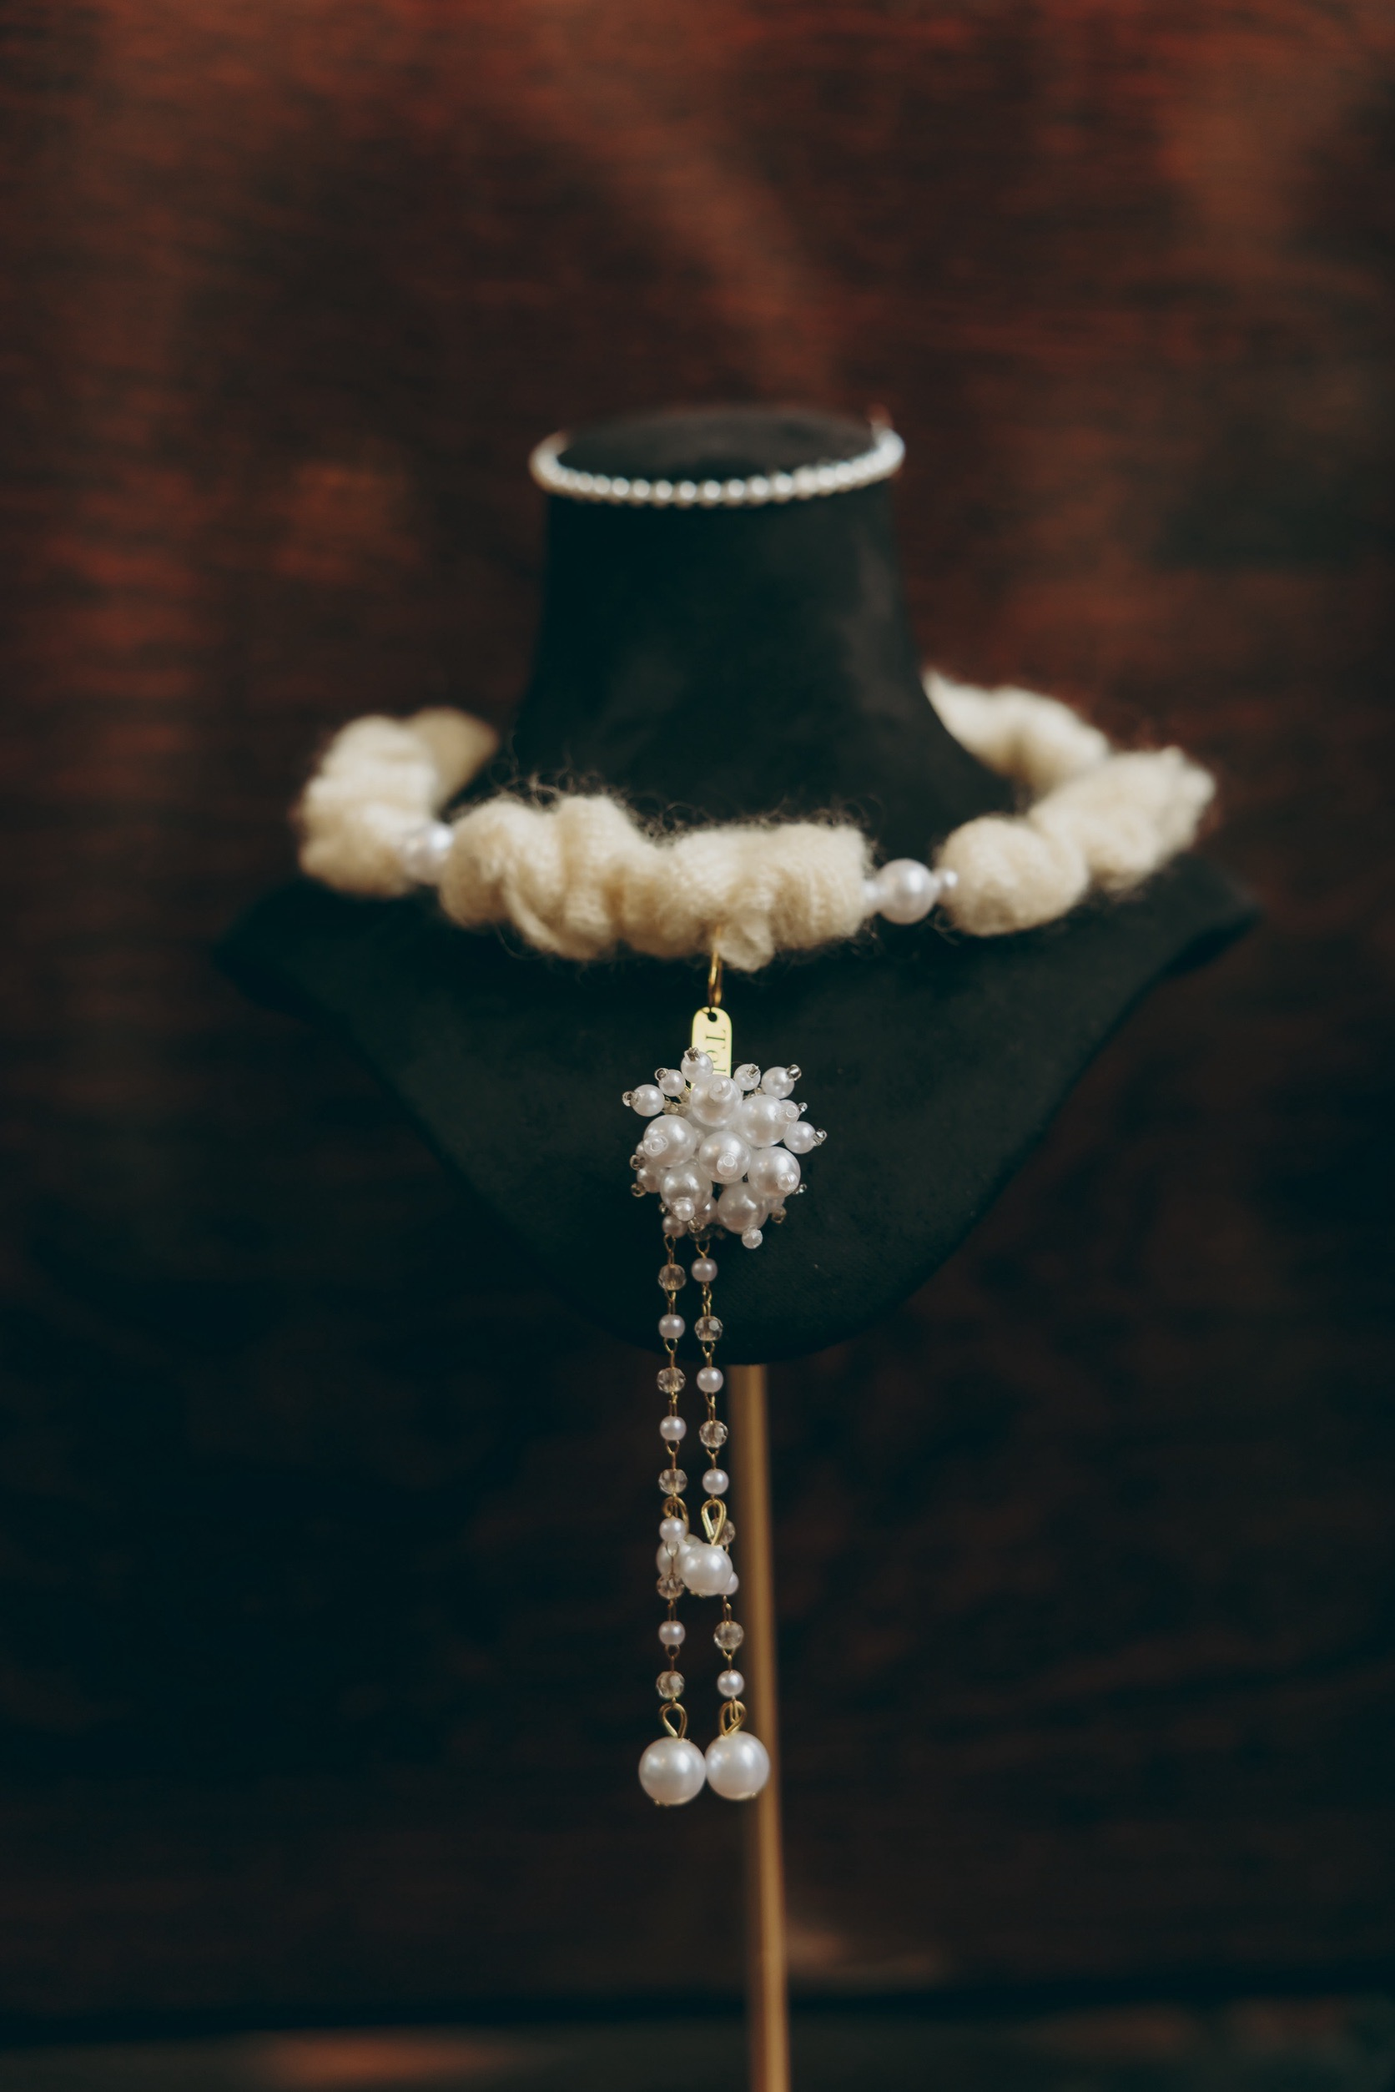
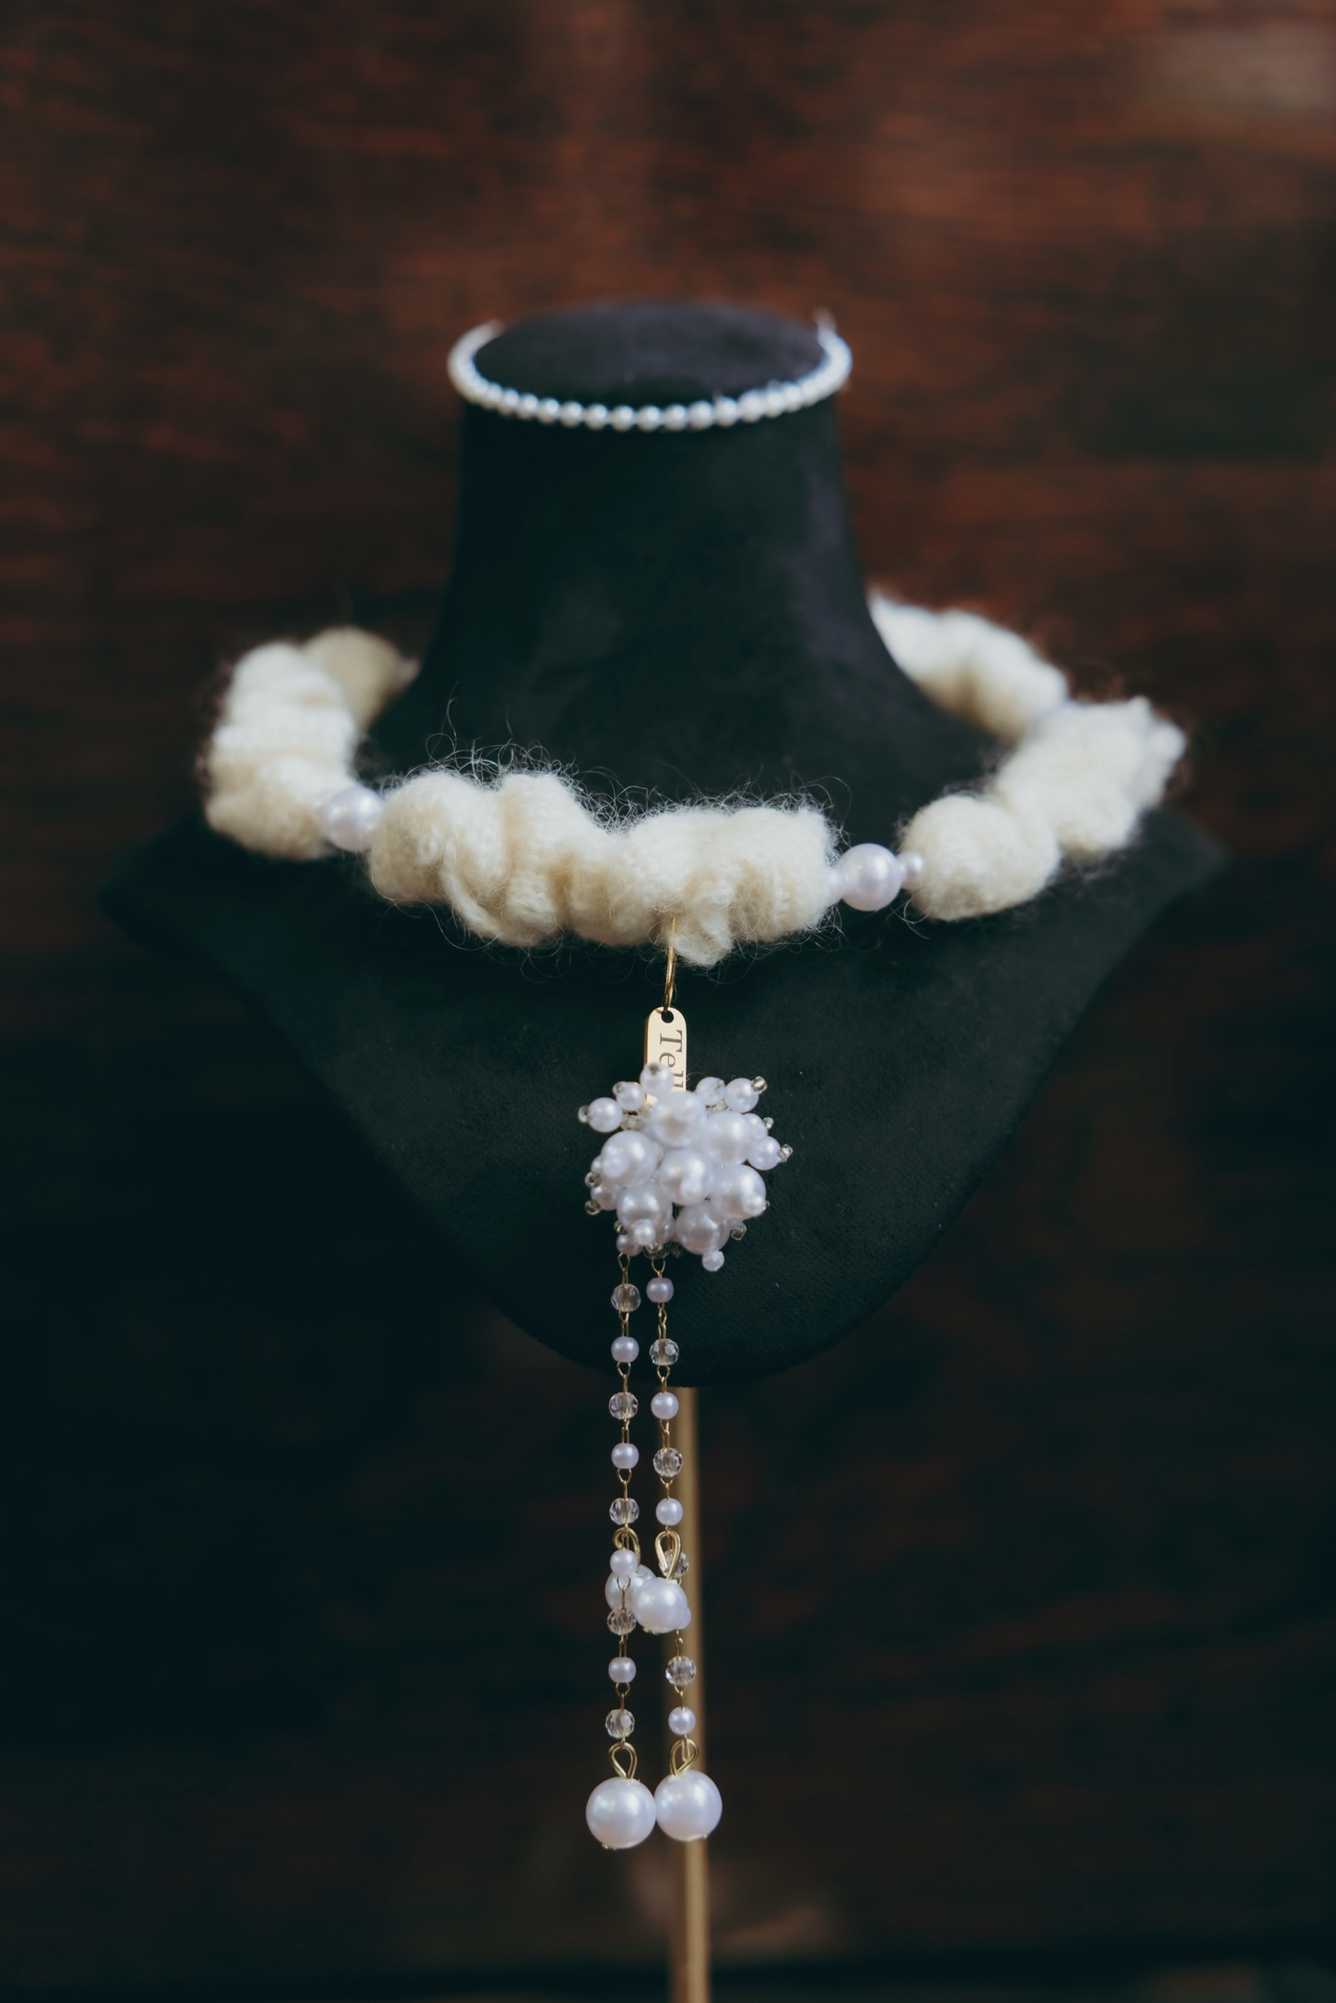
Update TellQ homepage.v.7.8.3

diff --git a/product-data.js b/product-data.js
@@ -99,17 +99,17 @@ const PRODUCT_DATA = [
             "【商品説明】</br></br>異なる色や質感の生地を組み合わせた、表情豊かなパッチワークマフラー。</br></br>上質なウールを使用し、モヘヤやアルパカなどの素材を組み合わせることで、それぞれ異なる素材の風合いを楽しめるデザインに仕上げました。</br></br>生地をオーバーロックで縫い合わせることで生まれる、ふんわりとした立体感も魅力のひとつ。</br></br>量産することのできない、唯一無二のデザインです。</br></br>巻き方によって見える柄や素材が変わるため、その日の気分やコーディネートに合わせてさまざまな表情をお楽しみいただけます。</br></br>カラーはブラック・ホワイト・ブラウンの全3色。シンプルな装いのアクセントとしてはもちろん、秋冬のワントーンコーデにもおすすめです。</br></br>仕上げにはTellQのオリジナルプレートを一針ずつ手縫いで取り付けました。</br></br>生地の組み合わせによって一つひとつ異なる表情を持つ、特別なアイテムです。</br></br>⋆. ݁┈┈┈┈┈┈┈┈┈┈┈┈┈┈┈┈┈┈ ݁.⋆",
             "【素材・組成】</br></br>* 主な素材：ウール</br>* その他の素材：モヘヤ、アルパカなど</br>* 補助素材：少量のナイロンなど</br>* 仕様：異なる生地を組み合わせたパッチワーク</br>* 仕上げ：TellQオリジナルプレートを手縫いで取り付け</br></br>【注意事項】</br></br>※使用素材や混率は商品ごとに異なる場合があります。</br></br>※正確な混率が確認できないため、素材の割合は記載していません。</br></br>商品に使用しているプレートには、製造過程や保管時に生じた細かな傷が見られる場合がございます。あらかじめご了承のうえ、ご購入いただきますようお願いいたします。</br></br>※傷が気になるお客様は、ご購入をお控えいただきますようお願いいたします。</br></br>⋆. ݁┈┈┈┈┈┈┈┈┈┈┈┈┈┈┈┈┈┈ ݁.⋆",
             "【お手入れ・保管方法】</br></br>アイロン</br></br>* スチームによる仕上げのみとし、アイロン面を生地に直接当てないでください。</br>* 生地の風合いや編み地を損なわないよう、優しくお取り扱いください。</br></br>洗濯</br></br>* 水または30℃以下のぬるま湯で、つけ置き洗いをしてください。</br>* 強くこすったり、引っ張ったりしないようご注意ください。</br>* タンブラー乾燥機の使用はお避けください。</br>* 洗濯後は形を整え、素材の風合いを損なわないよう乾燥させてください。</br>※素材や生地の組み合わせによって適切なお手入れ方法が異なる場合があります。洗濯表示や販売元の指示を優先してください。</br></br>ご使用上の注意</br></br>ざっくりと編まれたニット素材を含むため、アクセサリーやバッグの金具などへの引っ掛かりにご注意ください。</br></br>糸引きが起きた場合は、糸を切らずに、編み地の内側へ優しく引き戻して整えてください。</br></br>保管方法</br></br>* 湿気や直射日光を避け、清潔で乾燥した場所に保管してください。</br>* 型崩れや引っ掛かりを防ぐため、ほかの衣類やアクセサリーと分けて保管してください。</br>* 虫食いを防ぐため、防虫対策をおすすめします。</br></br>⋆. ݁┈┈┈┈┈┈┈┈┈┈┈┈┈┈┈┈┈┈ ݁.⋆",
-            "【サイズ・寸法】</br></br>サイズに関してはBESEをご確認ください</br></br>※手作業で制作しているため、商品ごとに多少の個体差が生じる場合があります。</br></br>⋆. ݁┈┈┈┈┈┈┈┈┈┈┈┈┈┈┈┈┈┈ ݁.⋆</br></br>【カラー】</br></br>全3色</br></br>* BLACK｜ブラック</br>* WHITE｜ホワイト</br>* BROWN｜ブラウン</br>※生地の組み合わせや配置は商品ごとに異なります。</br>※商品画像は、撮影時の照明やお使いのモニター環境によって実際の色味と異なって見える場合があります。</br></br>⋆. ݁┈┈┈┈┈┈┈┈┈┈┈┈┈┈┈┈┈┈ ݁.⋆",
+            "【サイズ・寸法】</br></br>サイズに関してはBESEをご確認ください</br></br>※手作業で制作しているため、商品ごとに多少の個体差が生じる場合があります。</br></br>⋆. ݁┈┈┈┈┈┈┈┈┈┈┈┈┈┈┈┈┈┈ ݁.⋆</br></br>【カラー】</br></br>全3色</br></br>* BLACK｜ブラック</br>* WHITE｜ホワイト</br>* BROWN｜ブラウン</br>※生地の組み合わせや配置は商品ごとに異なります。</br>※商品画像は、撮影時の照明やお使いのモニター環境によって実際の色味と異なって見える場合があります。</br>",
             "【配送・返品に関する案内】</br></br>発送予定日・送料・返品交換の条件・在庫状況などの詳細は、BASEの各商品販売ページにてご確認ください。</br></br>ご不明な点がございましたら、販売ページよりお問い合わせください。</br>"
         ]
     },
     {
         imagePrefix: "knit-accessories-",
         imageExtension: "JPG", // 商品画像の拡張子：jpg / png / webp など
-        photoCount: 1, // メイン写真の枚数：ここを変更すると表示枚数を調整できます
+        photoCount: 10, // メイン写真の枚数：ここを変更すると表示枚数を調整できます
         number: "アクセサリー1種",
         // status: "upcoming"（販売予定） / "available"（販売中） / "soldout"（売り切れ）
-        status: "upcoming",
+        status: "available",
         // 商品詳細欄に表示する販売予定の説明文。
         upcomingText: "11月中旬に販売予定。",
         // MORE ITEMSのCOMING SOONの下に表示する文言。商品ごとに編集できます。
@@ -122,22 +122,22 @@ const PRODUCT_DATA = [
         photoNotes: {},
         // 販売予定商品のカラー別設定。画像追加後に photoNumbers を編集します。
         variants: [
-            { key: "white", label: "WHITE", displayName: "WHITE", status: "available", color: "#f8f5ef", imagePrefix: "knit-accessories-", imageExtension: "JPG", photoNumbers: [1], baseUrl: "" }
+            { key: "ivory", label: "IVORY", displayName: "IVORY", status: "available", color: "#f8f4e6", imagePrefix: "knit-accessories-", imageExtension: "JPG", photoNumbers: [1, 2, 3, 6, 7, 8, 9, 10], baseUrl: "" }
         ],
 
         category: "TELLQ / UPCYCLED COLLECTION",
         name: "<span class='tellq-product-name-en'>TellQ</span><br><span class='tellq-product-name-ja'>ふわふわニット<br>アクセサリー</span>",
-        price: "¥----",//"¥8,800",
+        price: "¥8,800",//"¥8,800",
         // TellQ v6.30 code audit: dormant field; current product copy is supplied by information[].
         // description: "現在検討中の商品です。",
         material: "Knit(&Others)",
         information: [
-            //"【コンセプト】</br></br>Concept｜素材に、新しい可能性を。</br></br>役目を終えたと思われていた素材にも、まだ新しい魅力が眠っている。</br></br>TellQは、実家に残されていた残布やはぎれを活用し、廃棄されるはずだった素材に新たな価値を与え、これまでにないアクセサリーへと生まれ変わらせています。</br></br>素材を無駄なく活かし、環境への負担を減らしながら、既存の枠にとらわれないデザインを追求。</br></br>ものを大切にすることと、おしゃれを楽しむこと。その両方を叶える、環境にも配慮した新しいファッションの可能性を提案します。</br></br>⋆. ݁┈┈┈┈┈┈┈┈┈┈┈┈┈┈┈┈┈┈ ݁.⋆",
-            //"【商品説明】</br></br>ニットの柔らかなフォルムに、パールやビーズをあしらった印象的なナローチョーカー。</br></br>フックを使わず、そのまま首に通して着用できるシンプルな仕様です。重さは○gと軽く、首元にふわふわとしたニットの心地よさを感じながら、快適に身に着けられます。ニット素材が首元をやさしく包み、暖かさを添えてくれるのも魅力です。</br></br>マットな質感のニットと、パールやビーズのきらめきが互いの魅力を引き立て、首元に豊かな表情を添えます。</br></br>シンプルなトップスに合わせるだけでコーディネートの主役に。カジュアルな装いからエレガントなスタイルまで、幅広い着こなしのアクセントとしてお楽しみいただけます。</br></br>一般的なチェーンネックレスとはひと味違う、異なる質感のコントラストと存在感のあるデザインが魅力です。</br></br>⋆. ݁┈┈┈┈┈┈┈┈┈┈┈┈┈┈┈┈┈┈ ݁.⋆",
-            //"【素材・組成】</br></br>【注意事項】</br></br>商品に使用しているプレートには、製造過程や保管時に生じた細かな傷が見られる場合がございます。あらかじめご了承のうえ、ご購入いただきますようお願いいたします。</br></br>※傷が気になるお客様は、ご購入をお控えいただきますようお願いいたします。</br></br>⋆. ݁┈┈┈┈┈┈┈┈┈┈┈┈┈┈┈┈┈┈ ݁.⋆",
-            //"【お手入れ・保管方法】</br></br>* 汚れや汗が気になる場合は、柔らかく乾いた布で表面を優しく拭き取ってください。</br>* ニット部分は毛羽立ちや引っかかりが生じやすいため、強くこすったり、引っ張ったりしないでください。</br>* パールやビーズの装飾部分に強い衝撃を与えないようご注意ください。</br></br>保管方法</br></br>* 直射日光や高温多湿を避け、風通しのよい場所で保管してください。</br>* 型崩れや装飾の絡まりを防ぐため、他のアクセサリーと分けて保管してください。</br>* ニット部分を強く折り曲げたり、重いものを上に置いたりしないでください。</br></br>ご使用上の注意</br></br>* 水濡れや汗、化粧品、香水、ヘアスプレーなどの付着は、変色や素材の劣化につながる場合があります。</br>* 洗濯機や乾燥機のご使用はお避けください。</br>* 装飾部分を強く引っ張ると、破損やパーツの脱落につながる恐れがあります。</br>素材の風合いと美しいデザインを長くお楽しみいただくため、優しくお取り扱いください。</br></br>⋆. ݁┈┈┈┈┈┈┈┈┈┈┈┈┈┈┈┈┈┈ ݁.⋆",
-            //"【サイズ・寸法】</br></br>⋆. ݁┈┈┈┈┈┈┈┈┈┈┈┈┈┈┈┈┈┈ ݁.⋆</br></br>【カラー】</br></br>アイボリーニットパール(Knit Pearl Necklace – Ivory)</br></br>⋆. ݁┈┈┈┈┈┈┈┈┈┈┈┈┈┈┈┈┈┈ ݁.⋆",
-            //"【配送・返品に関する案内】</br></br>BASEの内容貼り付け</br></br>発送目安、返品・交換条件、受注生産や一点物の場合の注意点。</br></br>"
+            "【コンセプト】</br></br>Concept｜素材に、新しい可能性を。</br></br>役目を終えたと思われていた素材にも、まだ新しい魅力が眠っている。</br></br>TellQは、実家に残されていた残布やはぎれを活用し、廃棄されるはずだった素材に新たな価値を与え、これまでにないアクセサリーへと生まれ変わらせています。</br></br>素材を無駄なく活かし、環境への負担を減らしながら、既存の枠にとらわれないデザインを追求。</br></br>ものを大切にすることと、おしゃれを楽しむこと。その両方を叶える、環境にも配慮した新しいファッションの可能性を提案します。</br>",
+            "【商品説明】</br></br>ニットの柔らかなフォルムに、パールやビーズをあしらった印象的なナローチョーカー。</br></br>フックを使わず、そのまま首に通して着用できるシンプルな仕様です。重さは20gと軽く、首元にふわふわとしたニットの心地よさを感じながら、快適に身に着けられます。ニット素材が首元をやさしく包み、暖かさを添えてくれるのも魅力です。</br></br>マットな質感のニットと、パールやビーズのきらめきが互いの魅力を引き立て、首元に豊かな表情を添えます。</br></br>シンプルなトップスに合わせるだけでコーディネートの主役に。カジュアルな装いからエレガントなスタイルまで、幅広い着こなしのアクセントとしてお楽しみいただけます。</br></br>一般的なチェーンネックレスとはひと味違う、異なる質感のコントラストと存在感のあるデザインが魅力です。</br>",
+            "【素材・組成】</br>モヘア</br></br>【注意事項】</br>商品に使用しているプレートには、製造過程や保管時に生じた細かな傷が見られる場合がございます。あらかじめご了承のうえ、ご購入いただきますようお願いいたします。</br></br>※傷が気になるお客様は、ご購入をお控えいただきますようお願いいたします。</br>",
+            "【お手入れ・保管方法】</br></br>* 汚れや汗が気になる場合は、柔らかく乾いた布で表面を優しく拭き取ってください。</br>* ニット部分は毛羽立ちや引っかかりが生じやすいため、強くこすったり、引っ張ったりしないでください。</br>* パールやビーズの装飾部分に強い衝撃を与えないようご注意ください。</br></br>保管方法</br></br>* 直射日光や高温多湿を避け、風通しのよい場所で保管してください。</br>* 型崩れや装飾の絡まりを防ぐため、他のアクセサリーと分けて保管してください。</br>* ニット部分を強く折り曲げたり、重いものを上に置いたりしないでください。</br></br>ご使用上の注意</br></br>* 水濡れや汗、化粧品、香水、ヘアスプレーなどの付着は、変色や素材の劣化につながる場合があります。</br>* 洗濯機や乾燥機のご使用はお避けください。</br>* 装飾部分を強く引っ張ると、破損やパーツの脱落につながる恐れがあります。</br>素材の風合いと美しいデザインを長くお楽しみいただくため、優しくお取り扱いください。</br>",
+            "【サイズ・寸法】</br></br>サイズに関してはBESEをご確認ください</br></br>※手作業で制作しているため、商品ごとに多少の個体差が生じる場合があります。</br></br>⋆. ݁┈┈┈┈┈┈┈┈┈┈┈┈┈┈┈┈┈┈ ݁.⋆</br></br>【カラー】</br></br>アイボリーニットパール(Knit Pearl Necklace – Ivory)</br></br>⋆. ݁┈┈┈┈┈┈┈┈┈┈┈┈┈┈┈┈┈┈ ݁.⋆",
+            "【配送・返品に関する案内】</br></br>発送予定日・送料・返品交換の条件・在庫状況などの詳細は、BASEの各商品販売ページにてご確認ください。</br></br>ご不明な点がございましたら、販売ページよりお問い合わせください。</br>"
         ]
     },
     {
